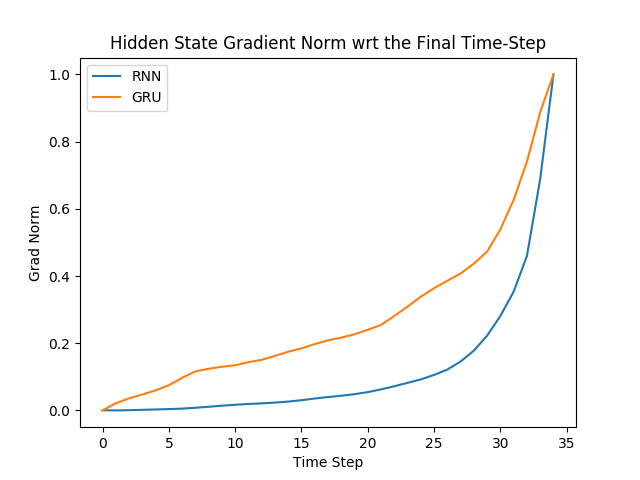
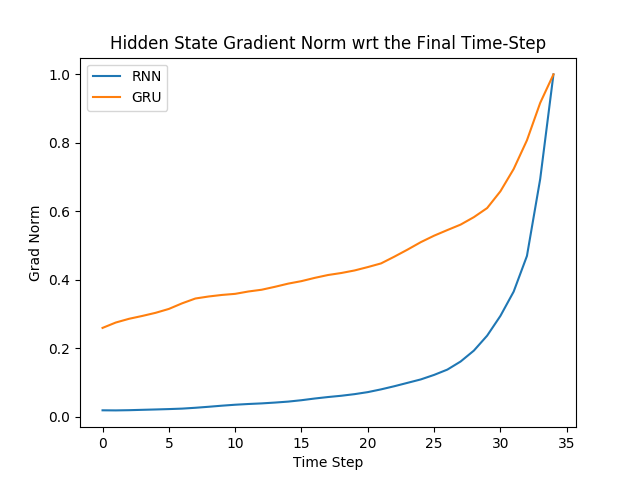
Correct rescale error for 5_2

diff --git a/Assignment_2/ptb-lm-grad.py b/Assignment_2/ptb-lm-grad.py
@@ -251,8 +251,7 @@ def run_epoch(model, data):
         time_steps, hidden_list = tuple(zip(*hidden_list))
         hidden_norm = [torch.norm(h.grad).item() for h in hidden_list]
         time_steps, hidden_norm = np.array(time_steps), np.array(hidden_norm)
-        #hidden_norm = hidden_norm - np.amin(hidden_norm)
-        #hidden_norm = hidden_norm / np.amax(hidden_norm)
+        hidden_norm = hidden_norm / np.amax(hidden_norm)
         return time_steps, hidden_norm
 
 ###############################################################################
@@ -289,4 +288,4 @@ plt.xlabel('Time Step')
 plt.ylabel('Grad Norm')
 plt.title('Hidden State Gradient Norm wrt the Final Time-Step')
 plt.legend()
-plt.savefig('5_2_figure')
+plt.savefig('5_2_figure_rescaled')
